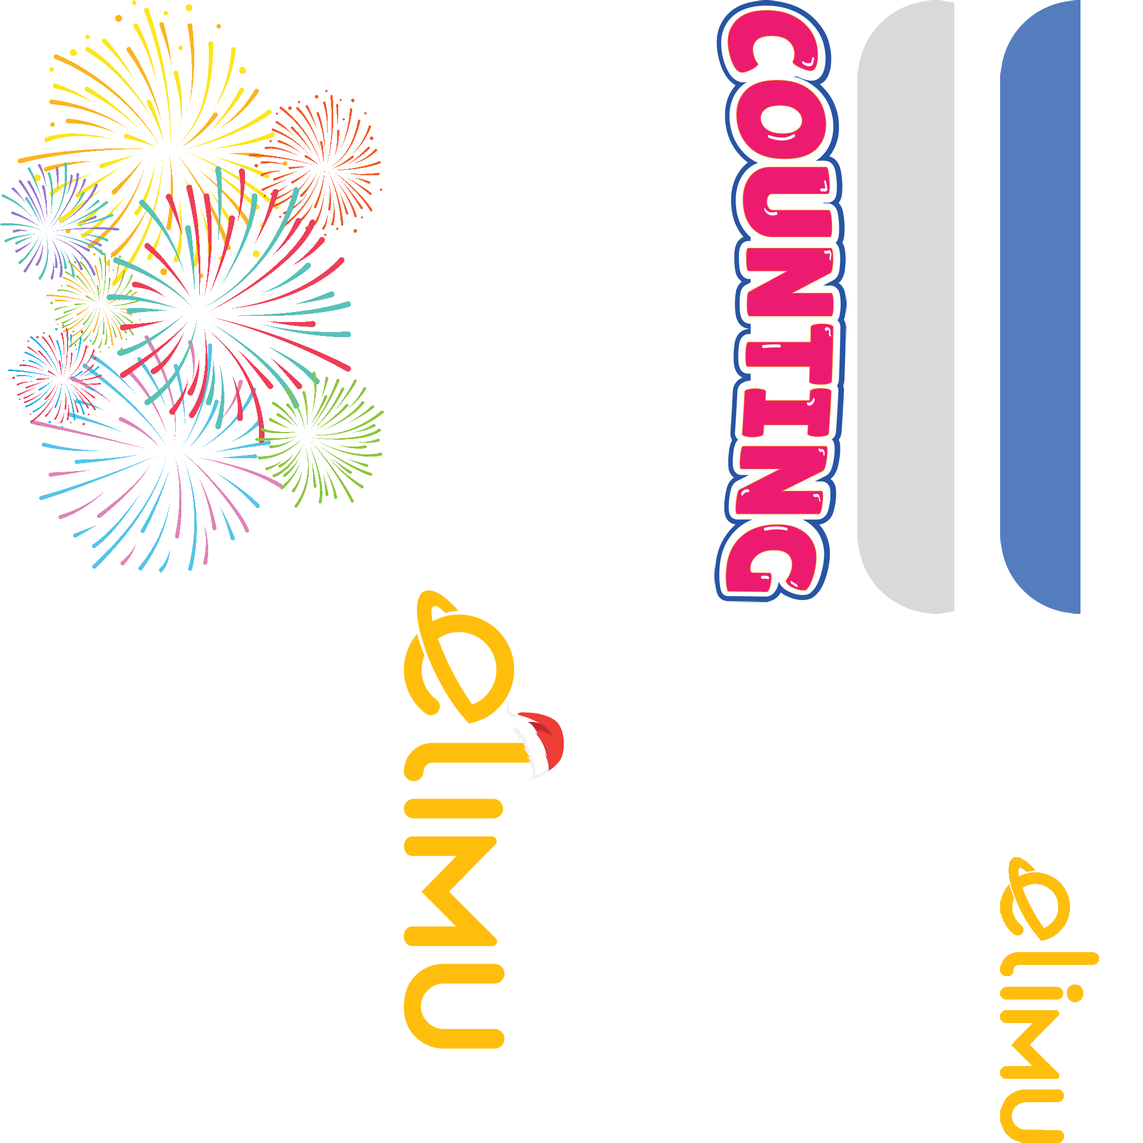
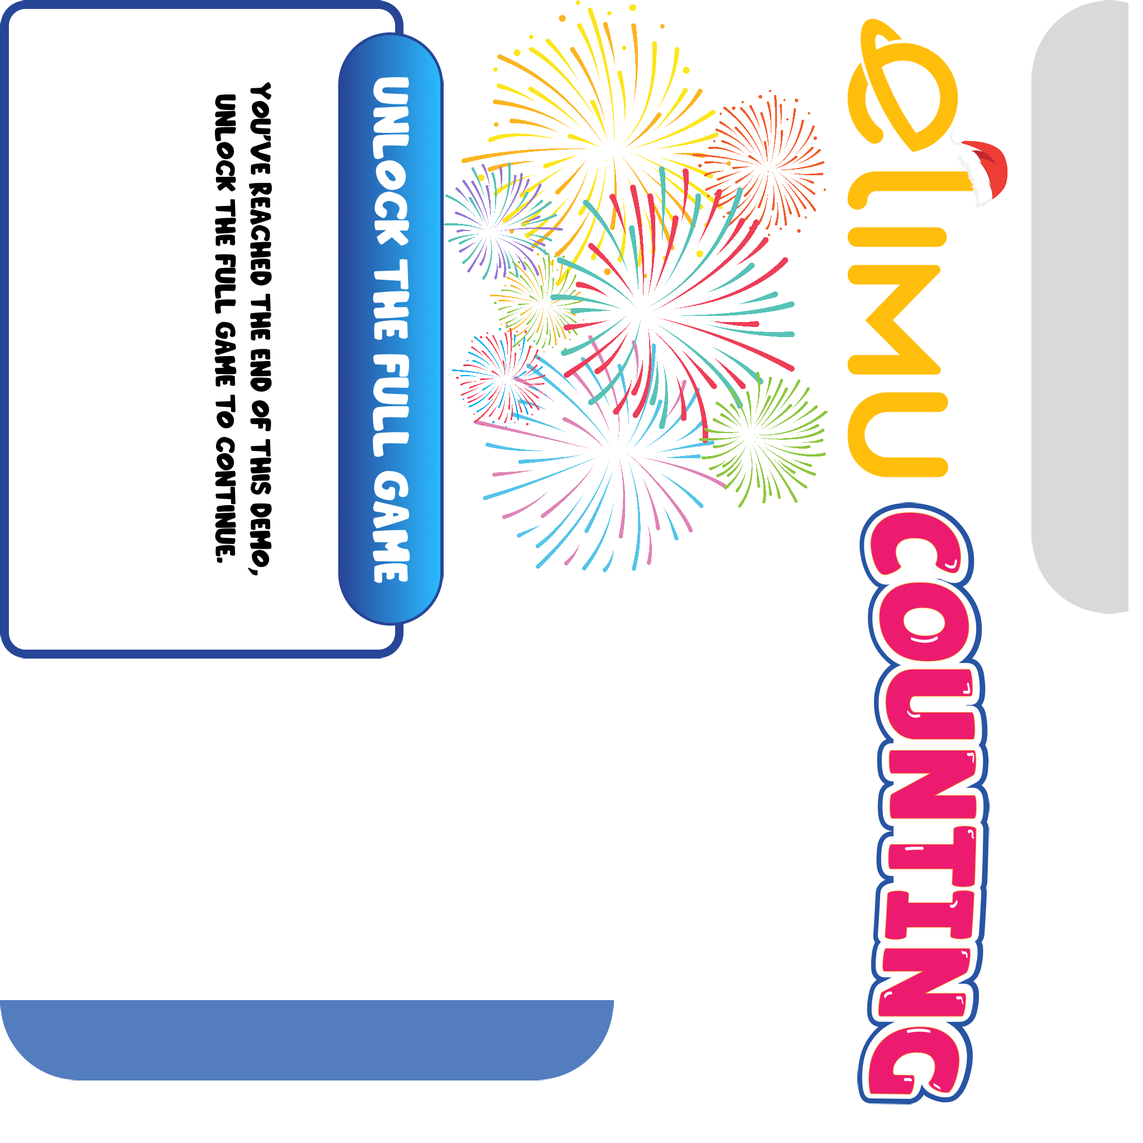
Add data persistence

diff --git a/scripts/c3runtime.js b/scripts/c3runtime.js
@@ -149,10 +149,10 @@ c||129489<=c&&129501>=c?13:127995<=c&&127999>=c?14:8205==c?15:9792==c||9794==c||
 56319>=m.charCodeAt(n)&&56320<=m.charCodeAt(n+1)&&57343>=m.charCodeAt(n+1))){m=d(a(c,e));if(b(g,k,m))return e;k.push(m)}}return c.length};this.splitGraphemes=function(c){for(var e=[],g=0,k;(k=this.nextBreak(c,g))<c.length;)e.push(c.slice(g,k)),g=k;g<c.length&&e.push(c.slice(g));return e};this.iterateGraphemes=function(c){var e=0,g={next:function(){var k;if((k=this.nextBreak(c,e))<c.length){var m=c.slice(e,k);e=k;return{value:m,done:!1}}return e<c.length?(m=c.slice(e),e=c.length,{value:m,done:!1}):
 {value:void 0,done:!0}}.bind(this)};"undefined"!==typeof Symbol&&Symbol.iterator&&(g[Symbol.iterator]=function(){return g});return g};this.countGraphemes=function(c){for(var e=0,g=0,k;(k=this.nextBreak(c,g))<c.length;)g=k,e++;g<c.length&&e++;return e};return this};"use strict";
 function lineInt(a,b,d){var c=[0,0];var e=a[1][1]-a[0][1];var g=a[0][0]-a[1][0];a=e*a[0][0]+g*a[0][1];var k=b[1][1]-b[0][1];var m=b[0][0]-b[1][0];b=k*b[0][0]+m*b[0][1];var n=e*m-k*g;scalar_eq(n,0,d||0)||(c[0]=(m*a-g*b)/n,c[1]=(e*b-k*a)/n);return c}function lineSegmentsIntersect(a,b,d,c){var e=b[0]-a[0];b=b[1]-a[1];var g=c[0]-d[0],k=c[1]-d[1];if(0===g*b-k*e)return!1;c=(e*(d[1]-a[1])+b*(a[0]-d[0]))/(g*b-k*e);a=(g*(a[1]-d[1])+k*(d[0]-a[0]))/(k*e-g*b);return 0<=c&&1>=c&&0<=a&&1>=a}
-function triangleArea(a,b,d){return(b[0]-a[0])*(d[1]-a[1])-(d[0]-a[0])*(b[1]-a[1])}function isLeft(a,b,d){return 0<triangleArea(a,b,d)}function isLeftOn(a,b,d){return 0<=triangleArea(a,b,d)}function isRight(a,b,d){return 0>triangleArea(a,b,d)}function isRightOn(a,b,d){return 0>=triangleArea(a,b,d)}var tmpPoint1$$module$working$370254955$c3runtime=[],tmpPoint2$$module$working$370254955$c3runtime=[];
-function collinear(a,b,d,c){if(c){var e=tmpPoint1$$module$working$370254955$c3runtime,g=tmpPoint2$$module$working$370254955$c3runtime;e[0]=b[0]-a[0];e[1]=b[1]-a[1];g[0]=d[0]-b[0];g[1]=d[1]-b[1];return Math.acos((e[0]*g[0]+e[1]*g[1])/(Math.sqrt(e[0]*e[0]+e[1]*e[1])*Math.sqrt(g[0]*g[0]+g[1]*g[1])))<c}return 0===triangleArea(a,b,d)}function sqdist(a,b){var d=b[0]-a[0];a=b[1]-a[1];return d*d+a*a}function polygonAt(a,b){var d=a.length;return a[0>b?b%d+d:b%d]}function polygonClear(a){a.length=0}
-function polygonAppend(a,b,d,c){for(;d<c;d++)a.push(b[d])}function polygonReverse(a){for(var b=[],d=a.length,c=0;c!==d;c++)b.push(a.pop());for(c=0;c!==d;c++)a[c]=b[c]}function polygonIsReflex(a,b){return isRight(polygonAt(a,b-1),polygonAt(a,b),polygonAt(a,b+1))}var tmpLine1$$module$working$370254955$c3runtime=[],tmpLine2$$module$working$370254955$c3runtime=[];
-function polygonCanSee(a,b,d){var c=tmpLine1$$module$working$370254955$c3runtime,e=tmpLine2$$module$working$370254955$c3runtime;if(isLeftOn(polygonAt(a,b+1),polygonAt(a,b),polygonAt(a,d))&&isRightOn(polygonAt(a,b-1),polygonAt(a,b),polygonAt(a,d)))return!1;var g=sqdist(polygonAt(a,b),polygonAt(a,d));for(var k=0;k!==a.length;++k)if((k+1)%a.length!==b&&k!==b&&isLeftOn(polygonAt(a,b),polygonAt(a,d),polygonAt(a,k+1))&&isRightOn(polygonAt(a,b),polygonAt(a,d),polygonAt(a,k))){c[0]=polygonAt(a,b);c[1]=polygonAt(a,
+function triangleArea(a,b,d){return(b[0]-a[0])*(d[1]-a[1])-(d[0]-a[0])*(b[1]-a[1])}function isLeft(a,b,d){return 0<triangleArea(a,b,d)}function isLeftOn(a,b,d){return 0<=triangleArea(a,b,d)}function isRight(a,b,d){return 0>triangleArea(a,b,d)}function isRightOn(a,b,d){return 0>=triangleArea(a,b,d)}var tmpPoint1$$module$working$905281823$c3runtime=[],tmpPoint2$$module$working$905281823$c3runtime=[];
+function collinear(a,b,d,c){if(c){var e=tmpPoint1$$module$working$905281823$c3runtime,g=tmpPoint2$$module$working$905281823$c3runtime;e[0]=b[0]-a[0];e[1]=b[1]-a[1];g[0]=d[0]-b[0];g[1]=d[1]-b[1];return Math.acos((e[0]*g[0]+e[1]*g[1])/(Math.sqrt(e[0]*e[0]+e[1]*e[1])*Math.sqrt(g[0]*g[0]+g[1]*g[1])))<c}return 0===triangleArea(a,b,d)}function sqdist(a,b){var d=b[0]-a[0];a=b[1]-a[1];return d*d+a*a}function polygonAt(a,b){var d=a.length;return a[0>b?b%d+d:b%d]}function polygonClear(a){a.length=0}
+function polygonAppend(a,b,d,c){for(;d<c;d++)a.push(b[d])}function polygonReverse(a){for(var b=[],d=a.length,c=0;c!==d;c++)b.push(a.pop());for(c=0;c!==d;c++)a[c]=b[c]}function polygonIsReflex(a,b){return isRight(polygonAt(a,b-1),polygonAt(a,b),polygonAt(a,b+1))}var tmpLine1$$module$working$905281823$c3runtime=[],tmpLine2$$module$working$905281823$c3runtime=[];
+function polygonCanSee(a,b,d){var c=tmpLine1$$module$working$905281823$c3runtime,e=tmpLine2$$module$working$905281823$c3runtime;if(isLeftOn(polygonAt(a,b+1),polygonAt(a,b),polygonAt(a,d))&&isRightOn(polygonAt(a,b-1),polygonAt(a,b),polygonAt(a,d)))return!1;var g=sqdist(polygonAt(a,b),polygonAt(a,d));for(var k=0;k!==a.length;++k)if((k+1)%a.length!==b&&k!==b&&isLeftOn(polygonAt(a,b),polygonAt(a,d),polygonAt(a,k+1))&&isRightOn(polygonAt(a,b),polygonAt(a,d),polygonAt(a,k))){c[0]=polygonAt(a,b);c[1]=polygonAt(a,
 d);e[0]=polygonAt(a,k);e[1]=polygonAt(a,k+1);var m=lineInt(c,e);if(sqdist(polygonAt(a,b),m)<g)return!1}return!0}function polygonCanSee2(a,b,d){for(var c=0;c!==a.length;++c)if(c!==b&&c!==d&&(c+1)%a.length!==b&&(c+1)%a.length!==d&&lineSegmentsIntersect(polygonAt(a,b),polygonAt(a,d),polygonAt(a,c),polygonAt(a,c+1)))return!1;return!0}
 function polygonCopy(a,b,d,c){c=c||[];polygonClear(c);if(b<d)for(var e=b;e<=d;e++)c.push(a[e]);else{for(e=0;e<=d;e++)c.push(a[e]);for(e=b;e<a.length;e++)c.push(a[e])}return c}
 function polygonGetCutEdges(a){for(var b=[],d,c,e=[],g=Number.MAX_VALUE,k=0;k<a.length;++k)if(polygonIsReflex(a,k))for(var m=0;m<a.length;++m)if(polygonCanSee(a,k,m)){d=polygonGetCutEdges(polygonCopy(a,k,m,e));c=polygonGetCutEdges(polygonCopy(a,m,k,e));for(var n=0;n<c.length;n++)d.push(c[n]);d.length<g&&(b=d,g=d.length,b.push([polygonAt(a,k),polygonAt(a,m)]))}return b}
@@ -2756,21 +2756,24 @@ const C3$jscomp$272=self.C3;C3$jscomp$272.Behaviors.Sin.Cnds={IsEnabled(){return
 self.C3.Behaviors.Sin.Acts={SetEnabled(a){this._SetEnabled(0!==a)},SetPeriod(a){this._SetPeriod(a)},SetMagnitude(a){this._SetMagnitude_ConvertAngle(a)},SetMovement(a){this._SetMovement(a)},SetWave(a){this._wave=a},SetPhase(a){const b=2*Math.PI;this._SetPhase(a*b%b)},UpdateInitialState(){this.Init()}};
 self.C3.Behaviors.Sin.Exps={CyclePosition(){return this._GetPhase()/(2*Math.PI)},Period(){return this._GetPeriod()},Magnitude(){return this._GetMagnitude_ConvertAngle()},Value(){return this.WaveFunc(this._GetPhase())*this._GetMagnitude_ConvertAngle()}};const C3$jscomp$275=self.C3;
 self.C3_GetObjectRefTable=function(){return[C3$jscomp$275.Plugins.Touch,C3$jscomp$275.Plugins.Browser,C3$jscomp$275.Plugins.Audio,C3$jscomp$275.Plugins.Mouse,C3$jscomp$275.Plugins.Keyboard,C3$jscomp$275.Plugins.HTMLElement,C3$jscomp$275.Plugins.Sprite,C3$jscomp$275.Behaviors.Tween,C3$jscomp$275.Behaviors.Sin,C3$jscomp$275.Plugins.Text,C3$jscomp$275.Plugins.SpeechSynthesis,C3$jscomp$275.Plugins.Particles,C3$jscomp$275.Plugins.Touch.Cnds.IsTouchingObject,C3$jscomp$275.Plugins.Mouse.Cnds.IsOverObject,
-C3$jscomp$275.Behaviors.Tween.Acts.TweenTwoProperties,C3$jscomp$275.Plugins.Touch.Cnds.OnHoldGestureObject,C3$jscomp$275.Plugins.Sprite.Acts.SetAnimFrame,C3$jscomp$275.Plugins.Audio.Cnds.IsTagPlaying,C3$jscomp$275.Plugins.Audio.Acts.SetVolume,C3$jscomp$275.Plugins.System.Cnds.CompareBoolVar,C3$jscomp$275.Plugins.Sprite.Acts.Spawn,C3$jscomp$275.Plugins.Sprite.Acts.SetPos,C3$jscomp$275.Plugins.Sprite.Acts.MoveToTop,C3$jscomp$275.Plugins.System.Acts.Wait,C3$jscomp$275.Plugins.Sprite.Acts.Destroy,C3$jscomp$275.Plugins.System.Cnds.CompareVar,
-C3$jscomp$275.Plugins.System.Acts.SetVar,C3$jscomp$275.Plugins.System.Exps.int,C3$jscomp$275.Plugins.System.Exps.random,C3$jscomp$275.Plugins.Audio.Acts.Play,C3$jscomp$275.Plugins.System.Acts.AddVar,C3$jscomp$275.Plugins.System.Acts.GoToLayout,C3$jscomp$275.Plugins.System.Acts.GoToLayoutByName,C3$jscomp$275.Plugins.System.Exps.layoutname,C3$jscomp$275.Plugins.System.Cnds.Else,C3$jscomp$275.Plugins.System.Cnds.OnLayoutStart,C3$jscomp$275.Plugins.System.Acts.WaitForPreviousActions,C3$jscomp$275.Plugins.SpeechSynthesis.Acts.SpeakText,
-C3$jscomp$275.Plugins.Text.Exps.Text,C3$jscomp$275.Plugins.Touch.Cnds.OnTouchObject,C3$jscomp$275.Plugins.System.Cnds.Every,C3$jscomp$275.Plugins.System.Cnds.EveryTick,C3$jscomp$275.Plugins.Browser.Acts.LockOrientation,C3$jscomp$275.Plugins.Browser.Acts.RequestFullScreen,C3$jscomp$275.Plugins.System.Cnds.OnLayoutEnd,C3$jscomp$275.ScriptsInEvents.Interface_es_Event1_Act1,C3$jscomp$275.ScriptsInEvents.Interface_es_Event2_Act1,C3$jscomp$275.ScriptsInEvents.Interface_es_Event3_Act1,C3$jscomp$275.ScriptsInEvents.Interface_es_Event4_Act1,
-C3$jscomp$275.ScriptsInEvents.Interface_es_Event5_Act1,C3$jscomp$275.ScriptsInEvents.Interface_es_Event7_Act1,C3$jscomp$275.ScriptsInEvents.Interface_es_Event8_Act1,C3$jscomp$275.Plugins.SpeechSynthesis.Acts.StopSpeaking,C3$jscomp$275.Plugins.System.Acts.SetBoolVar,C3$jscomp$275.Plugins.System.Exps.choose,C3$jscomp$275.Plugins.Sprite.Acts.SetVisible,C3$jscomp$275.Plugins.Sprite.Acts.SetSize,C3$jscomp$275.Plugins.Text.Acts.SetText,C3$jscomp$275.Plugins.System.Exps.lowercase,C3$jscomp$275.Behaviors.Tween.Cnds.OnTweensFinished,
-C3$jscomp$275.Plugins.Sprite.Cnds.IsVisible,C3$jscomp$275.Plugins.Sprite.Cnds.CompareFrame,C3$jscomp$275.Plugins.System.Acts.SubVar,C3$jscomp$275.Plugins.System.Acts.CreateObject,C3$jscomp$275.Plugins.System.Exps.layoutwidth,C3$jscomp$275.Plugins.System.Exps.layoutheight,C3$jscomp$275.Plugins.System.Cnds.TriggerOnce,C3$jscomp$275.Plugins.System.Cnds.For,C3$jscomp$275.Plugins.Sprite.Cnds.CompareInstanceVar,C3$jscomp$275.Plugins.System.Exps.loopindex,C3$jscomp$275.Plugins.Touch.Cnds.OnTapGestureObject,
-C3$jscomp$275.Plugins.System.Cnds.Compare,C3$jscomp$275.Behaviors.Sin.Acts.SetEnabled,C3$jscomp$275.Plugins.System.Cnds.PickByComparison]};
-self.C3_JsPropNameTable=[{Touch:0},{Browser:0},{Audio:0},{Mouse:0},{Keyboard:0},{HTMLElement:0},{Tween:0},{elimu_logo:0},{Sine:0},{play_btn:0},{home_bg:0},{back_btn:0},{counter_container:0},{count_instruction_txt:0},{status_btn:0},{counted_txt:0},{SpeechSynthesis:0},{range_img:0},{count_logo:0},{count_instruction_img:0},{coin_holder_img:0},{coin_txt:0},{countNumber:0},{fruit_img:0},{IsCounter:0},{fruit_holder_img:0},{fruit_counter_img:0},{overlay:0},{fireworks:0},{level:0},{level_btn:0},{level_instruction:0},
-{home_bg2:0},{VolumeLevel:0},{ToCount:0},{IsCorrect:0},{Counting:0},{Counted:0},{Coins:0},{ObjectType:0},{ObjectSpec:0},{Location:0},{ObjectName:0},{Instructor:0},{visibility:0},{WaitingTimeMax:0},{WaitingTime:0},{UserEmail:0},{GameAction:0},{GameKey:0},{UserFirstname:0},{UserLastname:0},{Username:0},{AppId:0},{dataKey:0},{value:0},{GameplayLayout:0},{Level:0},{CurrentLevel:0},{LevelRound:0}];
+C3$jscomp$275.Behaviors.Tween.Acts.TweenTwoProperties,C3$jscomp$275.Plugins.Touch.Cnds.OnHoldGestureObject,C3$jscomp$275.Plugins.Sprite.Acts.SetAnimFrame,C3$jscomp$275.Plugins.Audio.Cnds.IsTagPlaying,C3$jscomp$275.Plugins.Audio.Acts.SetVolume,C3$jscomp$275.Plugins.System.Cnds.CompareBoolVar,C3$jscomp$275.Plugins.Sprite.Acts.Spawn,C3$jscomp$275.Plugins.Sprite.Acts.SetPos,C3$jscomp$275.Plugins.Sprite.Acts.MoveToTop,C3$jscomp$275.Plugins.System.Acts.Wait,C3$jscomp$275.Plugins.Sprite.Acts.Destroy,C3$jscomp$275.Plugins.System.Acts.SetVar,
+C3$jscomp$275.Plugins.System.Exps.int,C3$jscomp$275.Plugins.System.Exps.tokenat,C3$jscomp$275.Plugins.System.Cnds.CompareVar,C3$jscomp$275.Plugins.Audio.Acts.Play,C3$jscomp$275.Plugins.System.Acts.AddVar,C3$jscomp$275.Plugins.System.Acts.WaitForPreviousActions,C3$jscomp$275.Plugins.System.Acts.GoToLayout,C3$jscomp$275.Plugins.System.Acts.GoToLayoutByName,C3$jscomp$275.Plugins.System.Exps.layoutname,C3$jscomp$275.Plugins.System.Cnds.Else,C3$jscomp$275.Plugins.System.Cnds.OnLayoutStart,C3$jscomp$275.Plugins.Touch.Cnds.OnTouchObject,
+C3$jscomp$275.Plugins.System.Cnds.Every,C3$jscomp$275.Plugins.SpeechSynthesis.Acts.SpeakText,C3$jscomp$275.Plugins.Text.Exps.Text,C3$jscomp$275.Plugins.SpeechSynthesis.Exps.VoiceURIAt,C3$jscomp$275.Plugins.System.Cnds.EveryTick,C3$jscomp$275.Plugins.Browser.Acts.LockOrientation,C3$jscomp$275.Plugins.Browser.Acts.RequestFullScreen,C3$jscomp$275.Plugins.System.Cnds.OnLayoutEnd,C3$jscomp$275.ScriptsInEvents.Interface_es_Event2_Act1,C3$jscomp$275.ScriptsInEvents.Interface_es_Event4_Act1,C3$jscomp$275.ScriptsInEvents.Interface_es_Event6_Act1,
+C3$jscomp$275.ScriptsInEvents.Interface_es_Event8_Act1,C3$jscomp$275.ScriptsInEvents.Interface_es_Event10_Act1,C3$jscomp$275.ScriptsInEvents.Interface_es_Event12_Act1,C3$jscomp$275.ScriptsInEvents.Interface_es_Event14_Act1,C3$jscomp$275.ScriptsInEvents.Interface_es_Event16_Act1,C3$jscomp$275.ScriptsInEvents.Interface_es_Event18_Act1,C3$jscomp$275.Plugins.SpeechSynthesis.Acts.StopSpeaking,C3$jscomp$275.Plugins.System.Acts.SetBoolVar,C3$jscomp$275.Plugins.System.Exps.choose,C3$jscomp$275.Plugins.Sprite.Acts.SetVisible,
+C3$jscomp$275.Plugins.Sprite.Acts.SetSize,C3$jscomp$275.Plugins.Text.Acts.SetText,C3$jscomp$275.Plugins.System.Exps.lowercase,C3$jscomp$275.Plugins.System.Cnds.TriggerOnce,C3$jscomp$275.Plugins.Sprite.Acts.SetScale,C3$jscomp$275.Behaviors.Tween.Cnds.OnTweensFinished,C3$jscomp$275.Plugins.Sprite.Cnds.IsVisible,C3$jscomp$275.Plugins.Sprite.Cnds.CompareFrame,C3$jscomp$275.Plugins.System.Acts.SubVar,C3$jscomp$275.Plugins.System.Acts.CreateObject,C3$jscomp$275.Plugins.System.Exps.layoutwidth,C3$jscomp$275.Plugins.System.Exps.layoutheight,
+C3$jscomp$275.Plugins.System.Cnds.For,C3$jscomp$275.Plugins.Sprite.Cnds.CompareInstanceVar,C3$jscomp$275.Plugins.System.Exps.loopindex,C3$jscomp$275.Plugins.Touch.Cnds.OnTapGestureObject,C3$jscomp$275.Plugins.System.Cnds.Compare,C3$jscomp$275.Behaviors.Sin.Acts.SetEnabled,C3$jscomp$275.Plugins.System.Cnds.PickByComparison,C3$jscomp$275.ScriptsInEvents.Levels_es_Event12_Act2]};
+self.C3_JsPropNameTable=[{Touch:0},{Browser:0},{Audio:0},{Mouse:0},{Keyboard:0},{HTMLElement:0},{Tween:0},{elimu_logo:0},{Sine:0},{play_btn:0},{home_bg:0},{back_btn:0},{counter_container:0},{count_instruction_txt:0},{status_btn:0},{level_txt:0},{SpeechSynthesis:0},{range_img:0},{count_logo:0},{count_instruction_img:0},{coin_holder_img:0},{coin_txt:0},{countNumber:0},{fruit_img:0},{IsCounter:0},{fruit_holder_img:0},{fruit_counter_img:0},{overlay:0},{fireworks:0},{level:0},{level_btn:0},{home_bg2:0},
+{select_level_txt:0},{demo_upgrade:0},{unlock_btn:0},{explore_btn:0},{VolumeLevel:0},{ToCount:0},{IsCorrect:0},{Counting:0},{Counted:0},{Coins:0},{ObjectType:0},{ObjectSpec:0},{Location:0},{ObjectName:0},{Instructor:0},{visibility:0},{WaitingTimeMax:0},{WaitingTime:0},{UserEmail:0},{GameAction:0},{GameKey:0},{UserFirstname:0},{UserLastname:0},{Username:0},{AppId:0},{dataKey:0},{value:0},{GameplayLayout:0},{Level:0},{CurrentLevel:0},{LevelRound:0},{LevelRoundLimit:0},{Sequence:0},{IsFullMode:0},{DemoLimit:0}];
 self.InstanceType={Touch:class extends self.IInstance{},Browser:class extends self.IInstance{},Audio:class extends self.IInstance{},Mouse:class extends self.IInstance{},Keyboard:class extends self.IInstance{},HTMLElement:class extends self.IHTMLElementInstance{},elimu_logo:class extends self.ISpriteInstance{},play_btn:class extends self.ISpriteInstance{},home_bg:class extends self.ISpriteInstance{},back_btn:class extends self.ISpriteInstance{},counter_container:class extends self.ISpriteInstance{},
-count_instruction_txt:class extends self.ITextInstance{},status_btn:class extends self.ISpriteInstance{},counted_txt:class extends self.ITextInstance{},SpeechSynthesis:class extends self.IInstance{},range_img:class extends self.ISpriteInstance{},count_logo:class extends self.ISpriteInstance{},count_instruction_img:class extends self.ISpriteInstance{},coin_holder_img:class extends self.ISpriteInstance{},coin_txt:class extends self.ITextInstance{},fruit_img:class extends self.ISpriteInstance{},fruit_holder_img:class extends self.ISpriteInstance{},
-fruit_counter_img:class extends self.ISpriteInstance{},overlay:class extends self.ISpriteInstance{},fireworks:class extends self.IParticlesInstance{},level_btn:class extends self.ISpriteInstance{},level_instruction:class extends self.ISpriteInstance{},home_bg2:class extends self.ISpriteInstance{}};function and(a,b){return"string"===typeof a||"string"===typeof b?("number"===typeof a?(Math.round(1E10*a)/1E10).toString():a)+("number"===typeof b?(Math.round(1E10*b)/1E10).toString():b):a&&b?1:0}
-self.C3_ExpressionFuncs=[()=>"",()=>1.5,()=>.5,()=>1,()=>379,()=>126,()=>0,()=>180,()=>118,()=>"audio",a=>{const b=a._GetNode(0).GetVar();return()=>b.GetValue()},()=>2,()=>962,()=>544,a=>{const b=a._GetNode(0).GetBoundMethod(),d=a._GetNode(1).GetBoundMethod();return()=>b(d(0,4))},a=>{const b=a._GetNode(0).GetBoundMethod(),d=a._GetNode(1).GetBoundMethod();return()=>b(d(5,9))},()=>3,a=>{const b=a._GetNode(0).GetBoundMethod(),d=a._GetNode(1).GetBoundMethod();return()=>b(d(10,14))},()=>4,a=>{const b=
-a._GetNode(0).GetBoundMethod(),d=a._GetNode(1).GetBoundMethod();return()=>b(d(15,19))},()=>5,a=>{const b=a._GetNode(0).GetBoundMethod(),d=a._GetNode(1).GetBoundMethod();return()=>b(d(20,25))},()=>6,a=>{const b=a._GetNode(0).GetBoundMethod(),d=a._GetNode(1).GetBoundMethod();return()=>b(d(0,25))},()=>8,()=>7,a=>{const b=a._GetNode(0).GetBoundMethod();return()=>b()},a=>{const b=a._GetNode(0);return()=>b.ExpObject()},()=>10,()=>"bg",a=>{const b=a._GetNode(0).GetBoundMethod();return()=>b("Daddy","Uncle",
-"Grandma","Grandpa","Auntie","A friend","James","John","Juliet","Jaccint")},a=>{const b=a._GetNode(0).GetBoundMethod();return()=>b("Breakfast","Lunch","Dinner ","Beach","Picnic in the park","School","Camping trip","Visit to the zoo")},a=>{const b=a._GetNode(0).GetBoundMethod();return()=>b(0,1,2)},a=>{const b=a._GetNode(0).GetBoundMethod();return()=>b("Fresh","Ripe","Sweet","Crisp","Tasty","Colorful","Delicious","Succulent","Plump","Nutritious","Flavorful")},()=>"submit-appear",()=>378,a=>{const b=
-a._GetNode(0).GetVar(),d=a._GetNode(1).GetVar(),c=a._GetNode(2).GetVar(),e=a._GetNode(3).GetBoundMethod(),g=a._GetNode(4).GetVar(),k=a._GetNode(5).GetVar(),m=a._GetNode(6).GetVar(),n=a._GetNode(7).GetBoundMethod(),q=a._GetNode(8).GetVar();return()=>and(b.GetValue()+" needs your help!\nCan  you "+(1>d.GetValue()?"place ":"count "),c.GetValue())+" "+e(g.GetValue())+" "+k.GetValue()+(1<m.GetValue()?"s":"")+" for the "+n(q.GetValue())+"?"},a=>{const b=a._GetNode(0).GetVar();return()=>and("Level ",b.GetValue())},
-()=>"pineapple",()=>64,()=>129,()=>"carrot",()=>60,()=>63,()=>"apple",()=>90,()=>"object-appear",()=>25,a=>{const b=a._GetNode(0).GetBoundMethod();return()=>b()/2},()=>"counting-fruits",a=>{const b=a._GetNode(0);return()=>b.ExpInstVar()},a=>{const b=a._GetNode(0);return()=>3*b.ExpInstVar()-1},()=>"levels",()=>.1,a=>{const b=a._GetNode(0);return()=>3*b.ExpInstVar()-2},a=>{const b=a._GetNode(0);return()=>3*b.ExpInstVar()-3}];var module$working$370254955$c3runtime={};const scriptsInEvents$$module$working$370254955$scriptsInEvents={async Interface_es_Event1_Act1(a,b){window.addEventListener("message",d=>{(d=d.data)&&d.action&&d.payload&&("sign_in"===d.action?(a.globalVars.GameAction=d.action,a.globalVars.GameKey=d.payload.app_key,a.globalVars.UserEmail=d.payload.user.email,a.globalVars.UserFirstname=d.payload.user.firstName,a.globalVars.UserLastname=d.payload.user.lastName,a.globalVars.Username=d.payload.user.username):"retrieve_user_data"===d.action&&(a.globalVars.TotalCoin=
-d.payload.playercoin||0,a.globalVars.TotalScore=d.payload.playerbestscore||0))})},async Interface_es_Event2_Act1(a,b){window.parent.postMessage({action:"close_app"},"*")},async Interface_es_Event3_Act1(a,b){window.parent.postMessage({action:"game_loaded",payload:{orientation:"landscape"}},"*")},async Interface_es_Event4_Act1(a,b){window.parent.postMessage({action:"open_activity",payload:{app_key:a.globalVars.AppId}},"*")},async Interface_es_Event5_Act1(a,b){window.parent.postMessage({action:"open_feedback",
-payload:{app_id:a.globalVars.GameKey}},"*")},async Interface_es_Event7_Act1(a,b){window.parent.postMessage({action:"update_user_data",payload:{dataKey:b.dataKey,value:b.value}},"*")},async Interface_es_Event8_Act1(a,b){window.parent.postMessage({action:"retrieve_user_data",payload:{app_key:a.globalVars.GameKey}},"*")}};self.C3.ScriptsInEvents=scriptsInEvents$$module$working$370254955$scriptsInEvents;var module$working$370254955$scriptsInEvents={};var module$working$370254955$__c3root__={};
+count_instruction_txt:class extends self.ITextInstance{},status_btn:class extends self.ISpriteInstance{},level_txt:class extends self.ITextInstance{},SpeechSynthesis:class extends self.IInstance{},range_img:class extends self.ISpriteInstance{},count_logo:class extends self.ISpriteInstance{},count_instruction_img:class extends self.ISpriteInstance{},coin_holder_img:class extends self.ISpriteInstance{},coin_txt:class extends self.ITextInstance{},fruit_img:class extends self.ISpriteInstance{},fruit_holder_img:class extends self.ISpriteInstance{},
+fruit_counter_img:class extends self.ISpriteInstance{},overlay:class extends self.ISpriteInstance{},fireworks:class extends self.IParticlesInstance{},level_btn:class extends self.ISpriteInstance{},home_bg2:class extends self.ISpriteInstance{},select_level_txt:class extends self.ITextInstance{},demo_upgrade:class extends self.ISpriteInstance{},unlock_btn:class extends self.ISpriteInstance{},explore_btn:class extends self.ISpriteInstance{}};
+function and(a,b){return"string"===typeof a||"string"===typeof b?("number"===typeof a?(Math.round(1E10*a)/1E10).toString():a)+("number"===typeof b?(Math.round(1E10*b)/1E10).toString():b):a&&b?1:0}
+self.C3_ExpressionFuncs=[()=>"",()=>1.5,()=>.5,()=>1,()=>379,()=>126,()=>0,()=>180,()=>118,()=>"audio",a=>{const b=a._GetNode(0).GetVar();return()=>b.GetValue()},()=>2,()=>962,()=>544,a=>{const b=a._GetNode(0).GetBoundMethod(),d=a._GetNode(1).GetBoundMethod(),c=a._GetNode(2).GetVar(),e=a._GetNode(3).GetVar();return()=>b(d(c.GetValue(),e.GetValue(),","))},()=>7,a=>{const b=a._GetNode(0).GetBoundMethod();return()=>b()},()=>10,a=>{const b=a._GetNode(0);return()=>b.ExpObject()},a=>{const b=a._GetNode(0).GetBoundMethod();
+return()=>b(2)},()=>"bg",()=>"C25_Coin",()=>"C25_Level",a=>{const b=a._GetNode(0).GetBoundMethod();return()=>b("Daddy","Uncle","Grandma","Grandpa","Auntie","A friend","James","John","Juliet","Jaccint")},a=>{const b=a._GetNode(0).GetBoundMethod();return()=>b("Breakfast","Lunch","Dinner ","the Beach","the Picnic in the park","the School","the Camping trip","the Visit to the zoo")},a=>{const b=a._GetNode(0).GetBoundMethod();return()=>b(0,1,2)},a=>{const b=a._GetNode(0).GetBoundMethod();return()=>b("Fresh",
+"Ripe","Sweet","Crisp","Tasty","Colorful","Delicious","Succulent","Plump","Nutritious","Flavorful")},()=>"submit-appear",()=>378,a=>{const b=a._GetNode(0).GetVar(),d=a._GetNode(1).GetVar(),c=a._GetNode(2).GetVar(),e=a._GetNode(3).GetBoundMethod(),g=a._GetNode(4).GetVar(),k=a._GetNode(5).GetVar(),m=a._GetNode(6).GetVar(),n=a._GetNode(7).GetBoundMethod(),q=a._GetNode(8).GetVar();return()=>and(b.GetValue()+" needs your help!\nCan  you "+(1>d.GetValue()?"place ":"count "),c.GetValue())+" "+e(g.GetValue())+
+" "+k.GetValue()+(1<m.GetValue()?"s":"")+" for "+n(q.GetValue())+"?"},a=>{const b=a._GetNode(0).GetVar();return()=>and("Level ",b.GetValue())},()=>"pineapple",()=>64,()=>129,()=>"watermelon",()=>60,()=>63,()=>"apple",()=>90,()=>"object-appear",()=>25,a=>{const b=a._GetNode(0).GetBoundMethod();return()=>b()/2},()=>"counting-fruits",()=>128,a=>{const b=a._GetNode(0);return()=>b.ExpInstVar()},a=>{const b=a._GetNode(0);return()=>3*b.ExpInstVar()-1},()=>"levels",()=>6,()=>.1,a=>{const b=a._GetNode(0);
+return()=>3*b.ExpInstVar()-2},a=>{const b=a._GetNode(0);return()=>3*b.ExpInstVar()-3},()=>5,()=>958,()=>509,()=>905,()=>636,()=>742,()=>707,()=>400,()=>123,()=>1169];var module$working$905281823$c3runtime={};const scriptsInEvents$$module$working$905281823$scriptsInEvents={async Interface_es_Event2_Act1(a,b){window.addEventListener("message",d=>{(d=d.data)&&d.action&&d.payload&&("sign_in"===d.action?(a.globalVars.GameAction=d.action,a.globalVars.GameKey=d.payload.app_key,a.globalVars.UserEmail=d.payload.user.email,a.globalVars.UserFirstname=d.payload.user.firstName,a.globalVars.UserLastname=d.payload.user.lastName,a.globalVars.Username=d.payload.user.username):"retrieve_user_data"===d.action&&(a.globalVars.Coins=
+d.payload.C25_Coin||0,a.globalVars.Level=d.payload.C25_Level||1))})},async Interface_es_Event4_Act1(a,b){window.parent.postMessage({action:"close_app"},"*")},async Interface_es_Event6_Act1(a,b){window.parent.postMessage({action:"game_loaded",payload:{orientation:"landscape"}},"*")},async Interface_es_Event8_Act1(a,b){window.parent.postMessage({action:"open_activity",payload:{app_key:"shapes_pairs"}},"*")},async Interface_es_Event10_Act1(a,b){window.parent.postMessage({action:"open_feedback",payload:{app_id:a.globalVars.GameKey}},
+"*")},async Interface_es_Event12_Act1(a,b){window.parent.postMessage({action:"update_user_data",payload:{dataKey:b.dataKey,value:b.value}},"*")},async Interface_es_Event14_Act1(a,b){window.parent.postMessage({action:"retrieve_user_data",payload:{app_key:a.globalVars.GameKey}},"*")},async Interface_es_Event16_Act1(a,b){window.parent.postMessage({action:"open_fullgame",payload:{app_key:a.globalVars.AppId}},"*")},async Interface_es_Event18_Act1(a,b){window.addEventListener("message",d=>{(d=d.data)&&
+d.action&&d.payload&&d.app.id&&(a.globalVars.AppId=d.app.id)})},async Levels_es_Event12_Act2(a,b){switch(a.globalVars.CurrentLevel){case 1:var d="0,4";break;case 2:d="5,9";break;case 3:d="10,14";break;case 4:d="15,19";break;case 5:d="20,25";break;case 6:d="0,25";break;default:d="0,4"}b=[];d=d.split(",");for(var c=parseInt(d[0]);c<=parseInt(d[1]);c++)for(var e=0;3>e;e++)b.push(c);d=a.globalVars;for(c=b.length-1;0<c;c--)e=Math.floor(Math.random()*(c+1)),[b[c],b[e]]=[b[e],b[c]];d.Sequence=b.join(",");
+a.globalVars.LevelRoundLimit=b.length}};self.C3.ScriptsInEvents=scriptsInEvents$$module$working$905281823$scriptsInEvents;var module$working$905281823$scriptsInEvents={};var module$working$905281823$__c3root__={};
